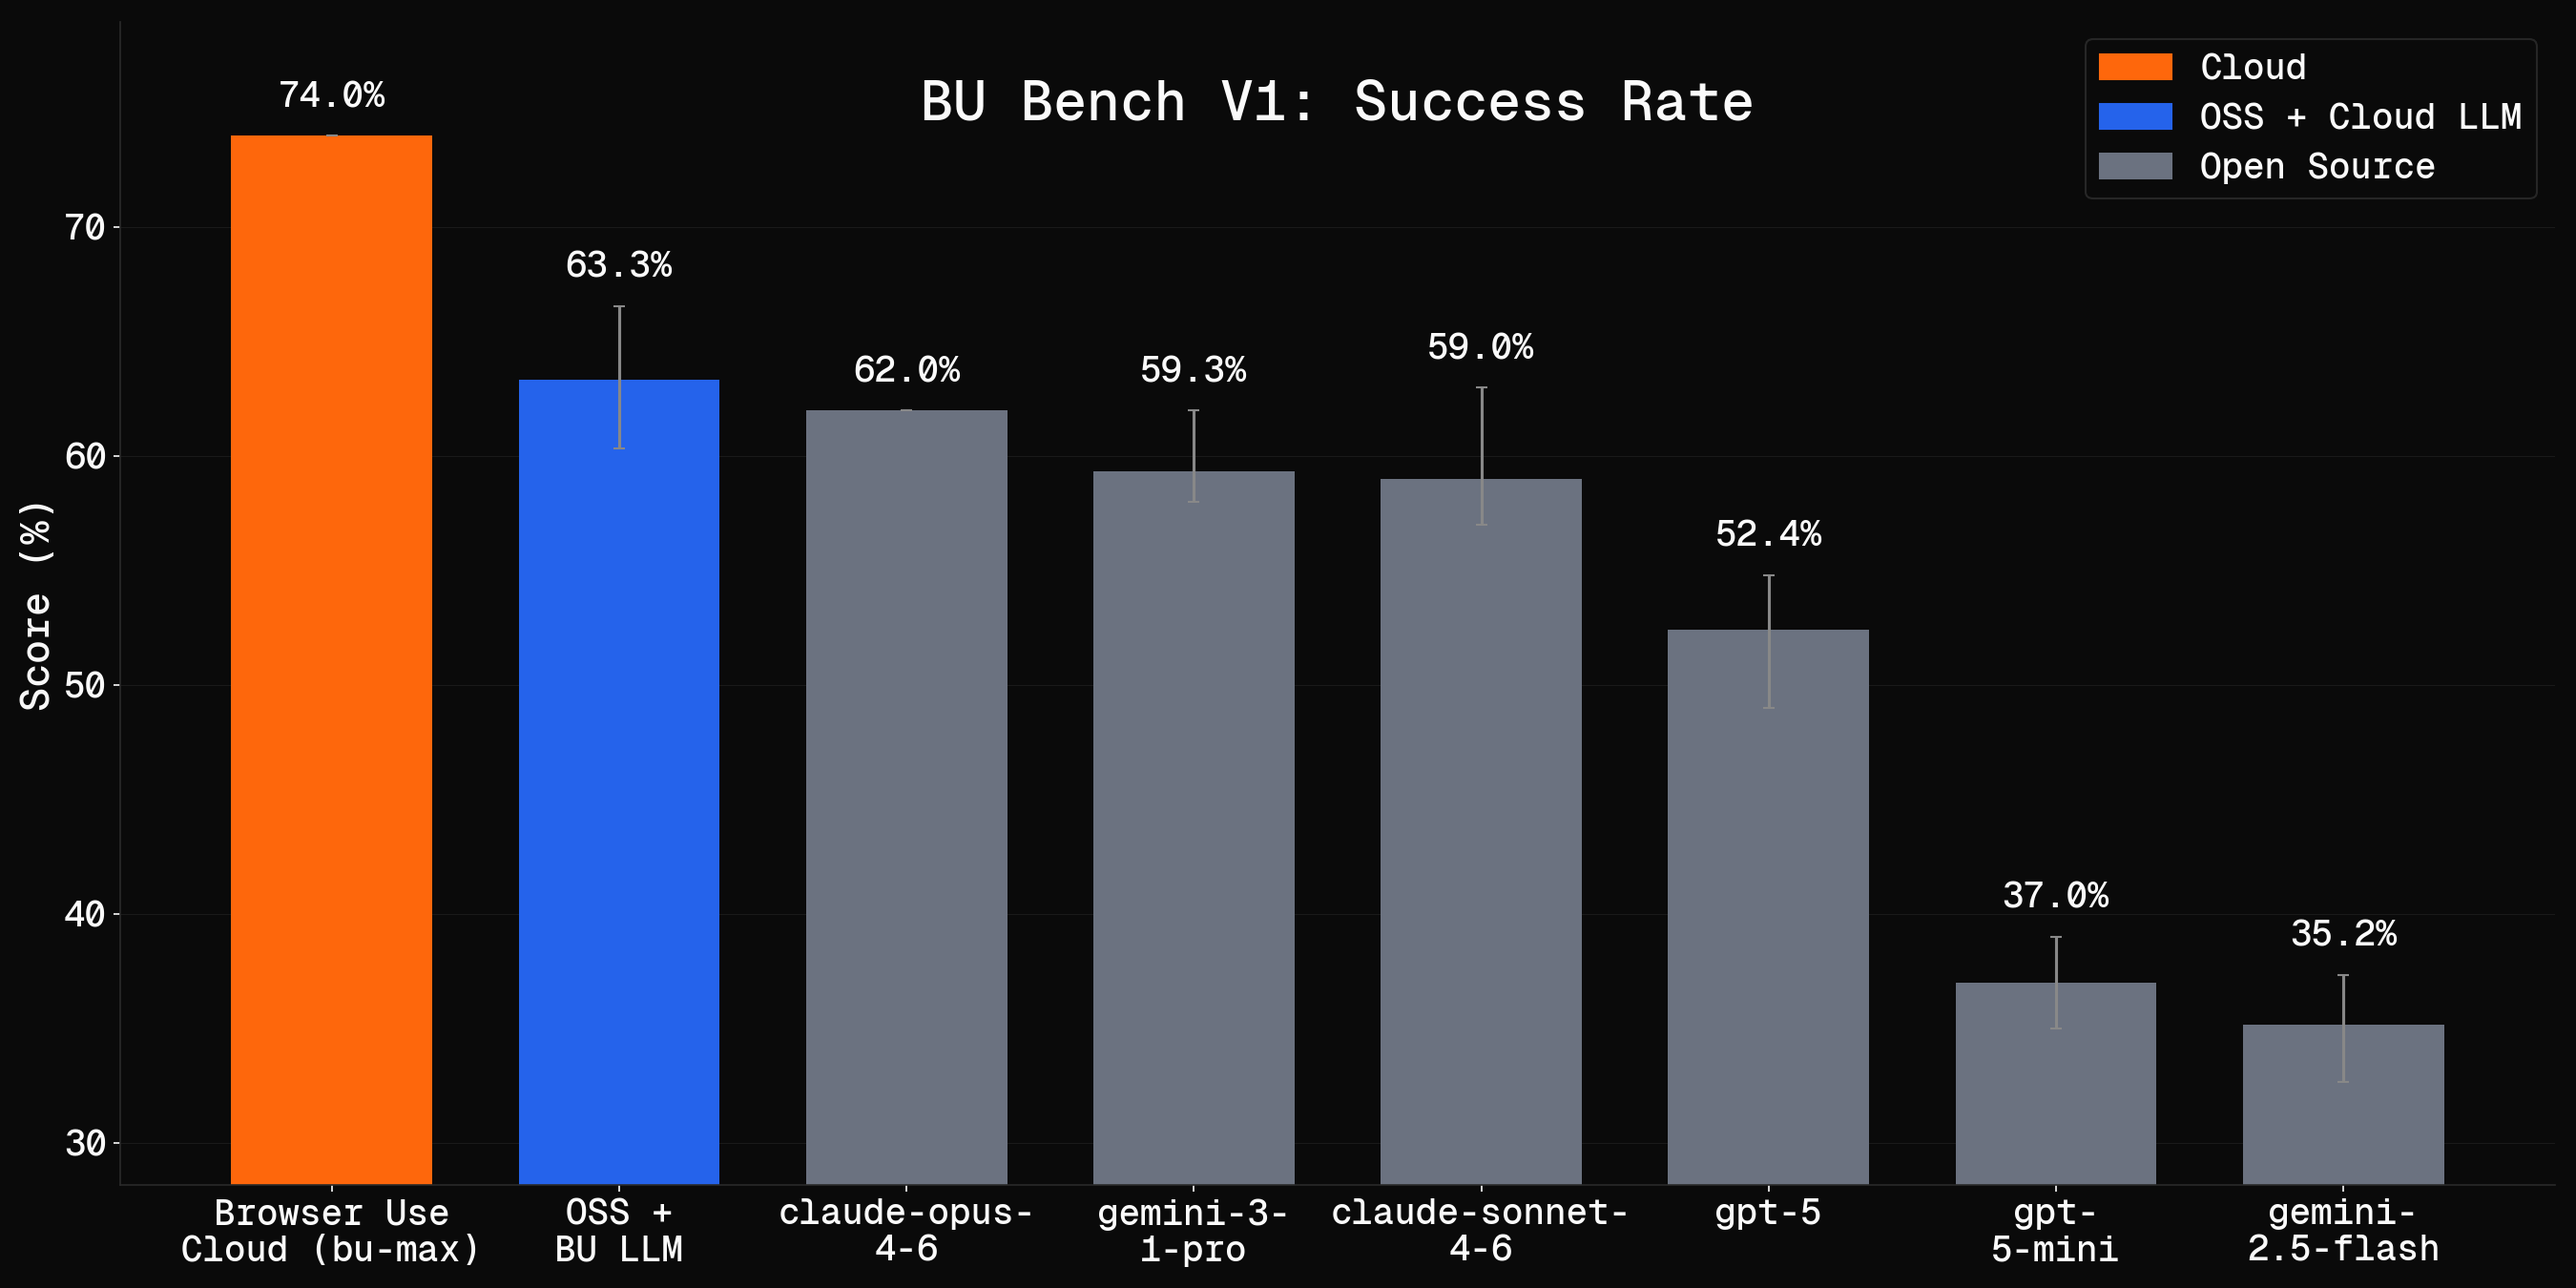
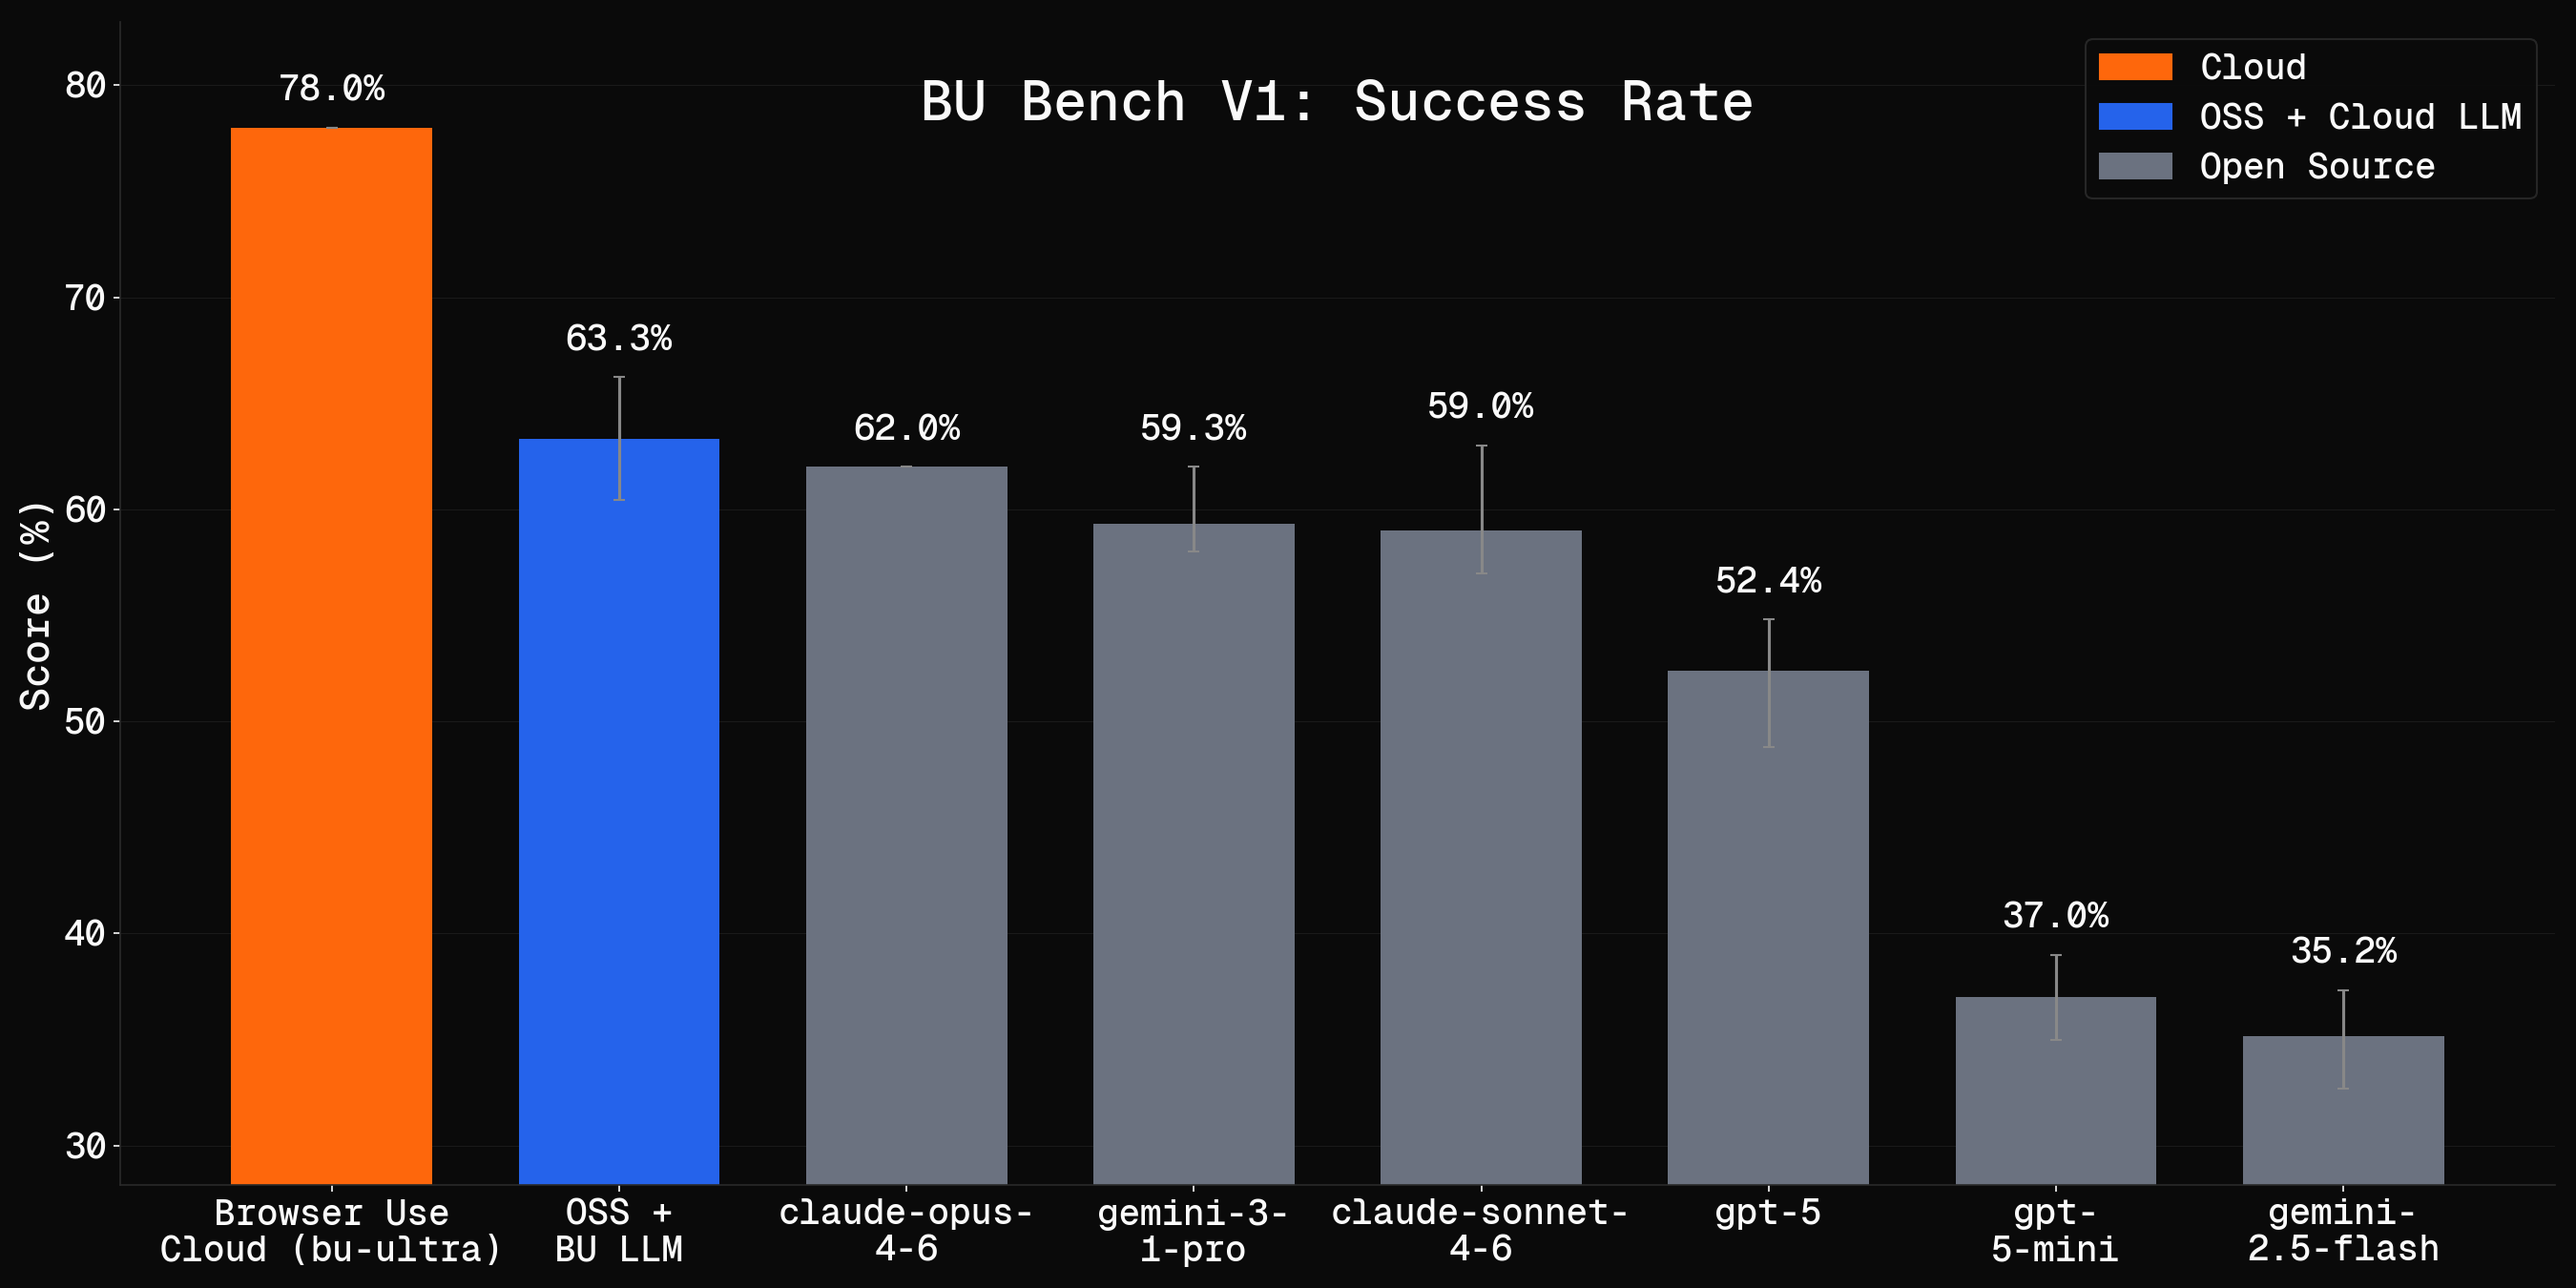
update benchmark plot with bu-ultra result (78%)

diff --git a/README.md b/README.md
@@ -107,7 +107,7 @@ We benchmark Browser Use across 100 real-world browser tasks. Full benchmark is 
 - You want to self-host and deploy browser agents on your own machines
 
 **Use [Cloud](https://cloud.browser-use.com) (recommended)**
-- Much better agent for complex tasks (see plot above)
+- Our most capable models BU Ultra and BU Max (see plot above)
 - Easiest way to start and scale
 - Best stealth with proxy rotation and captcha solving
 - 1000+ integrations (Gmail, Slack, Notion, and more)
